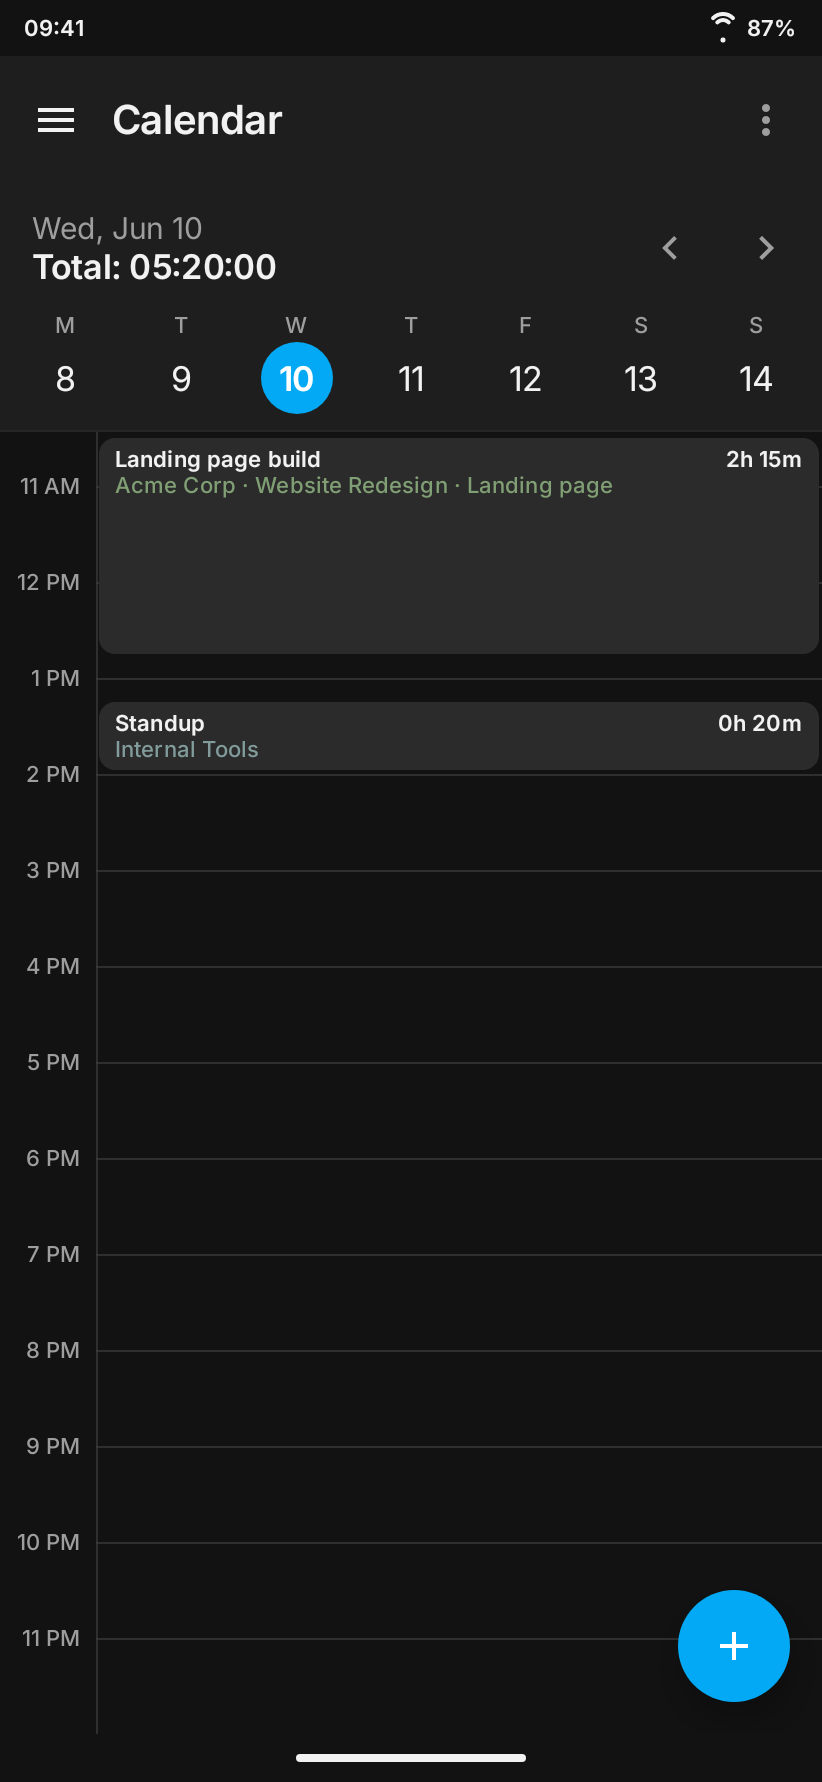
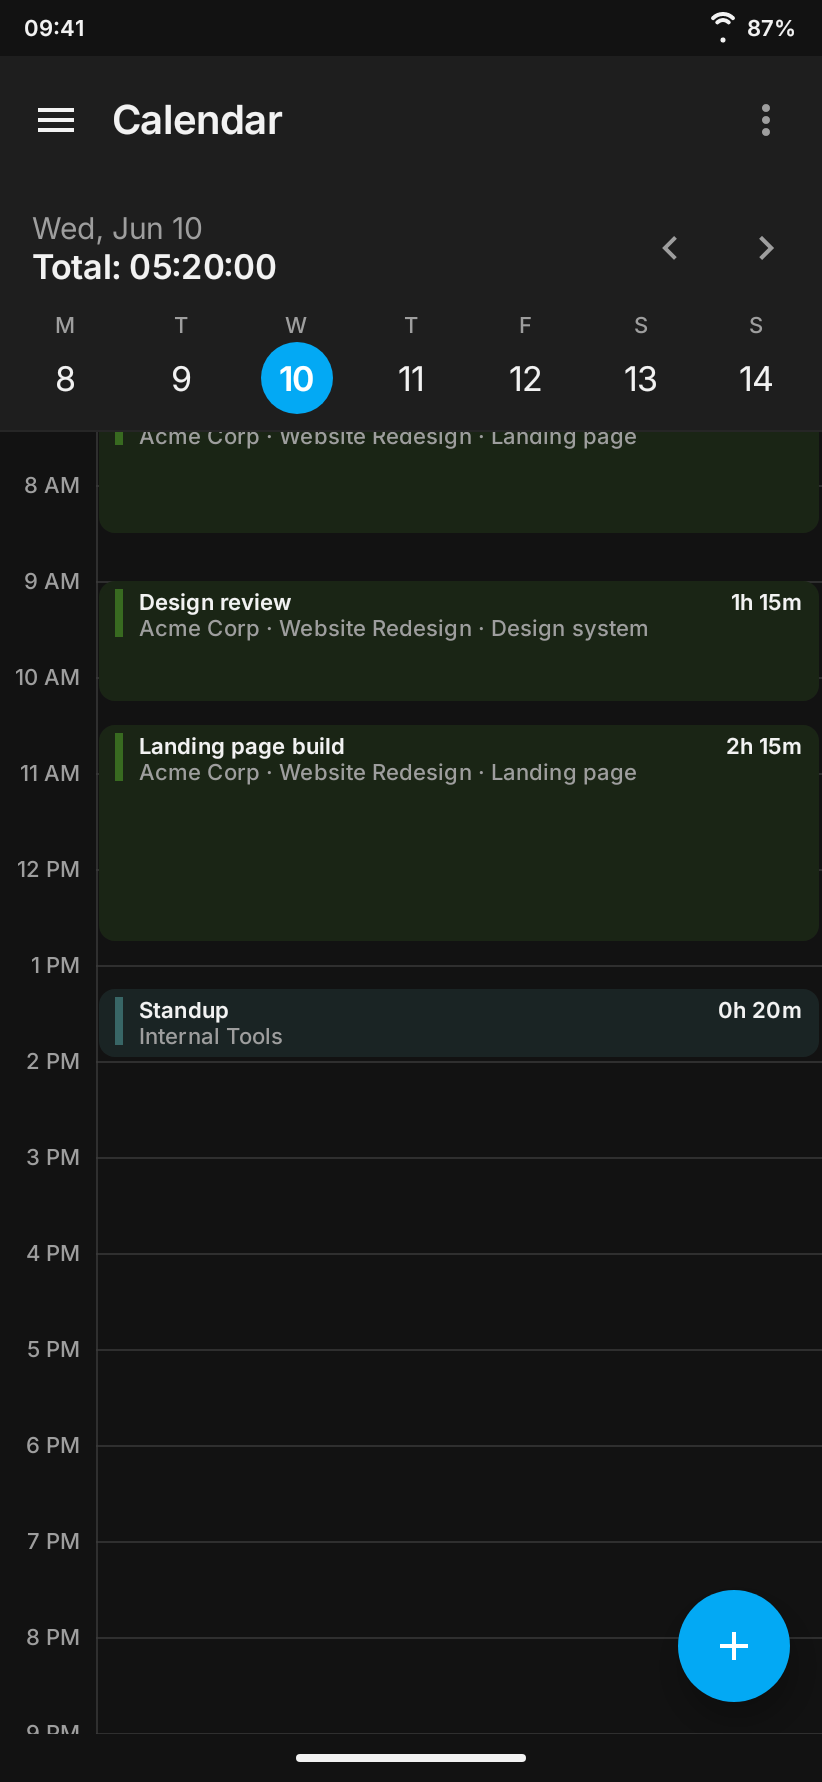
Colour calendar entries by project again
Entry cards are tinted with their project colour and led by a colour bar,
as before the redesign. The tint is laid over the page background, so the
hour lines and an overlapping entry do not show through. The README
calendar screenshots are regenerated.

diff --git a/app/src/main/java/dev/tricked/solidverdant/ui/components/EntryBlock.kt b/app/src/main/java/dev/tricked/solidverdant/ui/components/EntryBlock.kt
@@ -11,6 +11,7 @@ import androidx.compose.foundation.layout.Column
 import androidx.compose.foundation.layout.Row
 import androidx.compose.foundation.layout.Spacer
 import androidx.compose.foundation.layout.fillMaxWidth
+import androidx.compose.foundation.layout.height
 import androidx.compose.foundation.layout.heightIn
 import androidx.compose.foundation.layout.padding
 import androidx.compose.foundation.layout.width
@@ -22,6 +23,7 @@ import androidx.compose.ui.Alignment
 import androidx.compose.ui.Modifier
 import androidx.compose.ui.draw.clip
 import androidx.compose.ui.graphics.Color
+import androidx.compose.ui.graphics.compositeOver
 import androidx.compose.ui.res.stringResource
 import androidx.compose.ui.text.font.FontWeight
 import androidx.compose.ui.text.style.TextOverflow
@@ -31,19 +33,18 @@ import dev.tricked.solidverdant.R
 import dev.tricked.solidverdant.data.repository.TimeEntryRepository.EntrySyncStatus
 import dev.tricked.solidverdant.ui.theme.Dimens
 import dev.tricked.solidverdant.ui.theme.SolidVerdantTheme
-import dev.tricked.solidverdant.ui.theme.readableOn
 
 /**
- * A single calendar entry card: a grey card
- * (surfaceContainerHighest) with [MaterialTheme.shapes.small] corners, the
- * title in onSurface and the project line in the entry [color], blended until
- * it stays legible on the card. Use this everywhere an entry is rendered so the
- * per-view block renderers stay consistent.
+ * A single calendar entry card with [MaterialTheme.shapes.small] corners: tinted with the entry
+ * [color] and led by a bar in it, the title in onSurface and the project line in onSurfaceVariant.
+ * The tint is laid over the page background, so the hour lines and an overlapping entry do not
+ * show through. Use this everywhere an entry is rendered so the per-view block renderers stay
+ * consistent.
  *
- * @param color    entry accent colour (e.g. its project colour), used for the subtitle.
+ * @param color    entry colour (e.g. its project colour): the card's tint and its bar.
  * @param title    entry title; null/blank falls back to the shared
  *                 "Untitled entry" string.
- * @param subtitle optional secondary line (e.g. "Project - Task") in [color].
+ * @param subtitle optional secondary line (e.g. "Project - Task").
  * @param time     optional trailing text (e.g. formatted duration or time range).
  * @param minHeight minimum block height; defaults to [Dimens.EntryMinHeight].
  */
@@ -59,9 +60,8 @@ fun EntryBlock(
 ) {
     val resolvedTitle = title?.takeIf { it.isNotBlank() }
         ?: stringResource(R.string.uikit_untitled_entry)
-    val cardColor = MaterialTheme.colorScheme.surfaceContainerHighest
-    val onSurface = MaterialTheme.colorScheme.onSurface
-    val subtitleColor = remember(color, cardColor, onSurface) { color.readableOn(background = cardColor, towards = onSurface) }
+    val background = MaterialTheme.colorScheme.background
+    val cardColor = remember(color, background) { color.copy(alpha = ENTRY_TINT_ALPHA).compositeOver(background) }
     Row(
         modifier = modifier
             .fillMaxWidth()
@@ -74,6 +74,13 @@ fun EntryBlock(
             ),
         verticalAlignment = Alignment.Top,
     ) {
+        Spacer(
+            Modifier
+                .width(Dimens.EntryBarWidth)
+                .height(Dimens.EntryBarHeight)
+                .background(color),
+        )
+        Spacer(Modifier.width(Dimens.EntryBarGap))
         Column(Modifier.weight(1f)) {
             Row(verticalAlignment = Alignment.Top) {
                 Text(
@@ -104,7 +111,7 @@ fun EntryBlock(
                 Text(
                     text = subtitle,
                     style = MaterialTheme.typography.labelSmall,
-                    color = subtitleColor,
+                    color = MaterialTheme.colorScheme.onSurfaceVariant,
                     // The calendar supplies a finite card height. Let metadata use every line
                     // that fits inside that height, then rely on the card clip for short slots.
                     // A fixed line cap wastes most of tall week-view entries.
@@ -116,6 +123,8 @@ fun EntryBlock(
         }
     }
 }
+
+private const val ENTRY_TINT_ALPHA = 0.22f
 
 @Preview
 @Composable

diff --git a/app/src/main/java/dev/tricked/solidverdant/ui/theme/Dimens.kt b/app/src/main/java/dev/tricked/solidverdant/ui/theme/Dimens.kt
@@ -15,9 +15,10 @@ import androidx.compose.ui.unit.dp
  *  - Statistics KPI / donut / trend cards use 16.dp content padding and 8.dp
  *    inner vertical gaps ([CardContentPadding], [CardContentGap]).
  *  - The month/day calendar entry cards clip to [MaterialTheme.shapes.small]
- *    (8.dp), keep an 8.dp gap between title and duration, and are inset with
- *    8.dp horizontal / 4.dp vertical padding
- *    ([CornerRadius], [EntryBarGap], [EntryPaddingHorizontal], [EntryPaddingVertical]).
+ *    (8.dp), lead with a 4.dp x 24.dp colour bar, keep an 8.dp gap after the
+ *    bar and between title and duration, and are inset with 8.dp horizontal /
+ *    4.dp vertical padding ([CornerRadius], [EntryBarWidth], [EntryBarHeight],
+ *    [EntryBarGap], [EntryPaddingHorizontal], [EntryPaddingVertical]).
  *  - Calendar day entries coerce to a minimum block height of 34.dp
  *    ([EntryMinHeight]).
  */
@@ -45,6 +46,8 @@ object Dimens {
 
     // --- Calendar entry-block metrics (measured from Day/Month calendar) ---
     val EntryMinHeight = 34.dp
+    val EntryBarWidth = 4.dp
+    val EntryBarHeight = 24.dp
     val EntryBarGap = 8.dp
     val EntryPaddingHorizontal = 8.dp
     val EntryPaddingVertical = 4.dp
